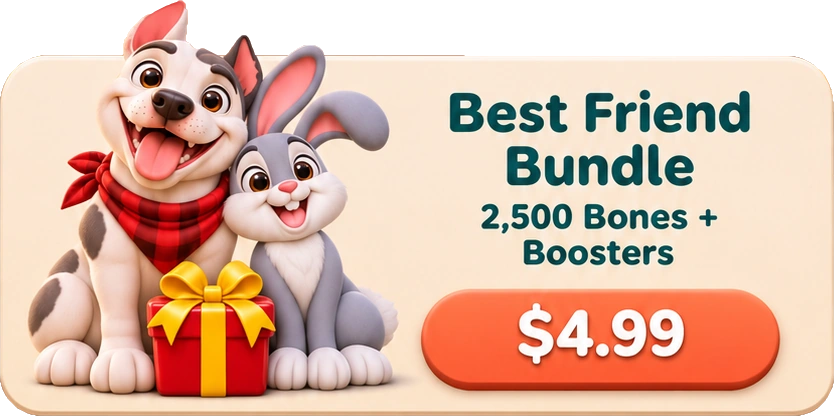
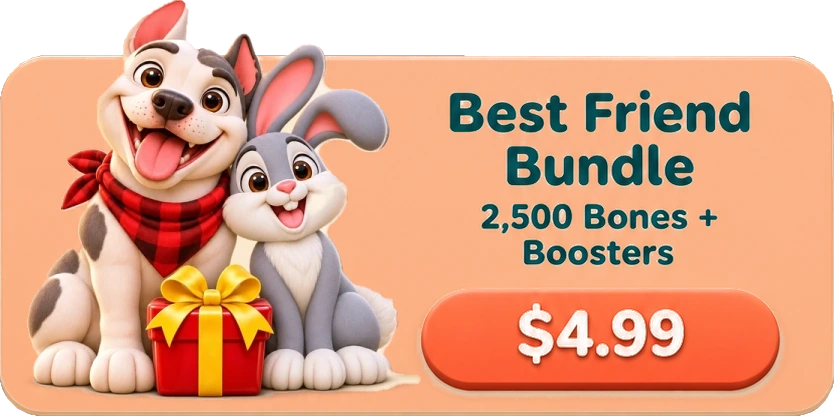
Shop: peach title and peach Best Friend Bundle box so Rambo stands out
Claude-Session: https://claude.ai/code/session_01HqXo8oXM9XTGkWGnUkjv9K

diff --git a/bovo11/shop.html b/bovo11/shop.html
@@ -47,7 +47,7 @@ K.topbar(ui,'settings.html');
 const buy=()=>K.toast('Purchases are coming soon!');
 const bst=(price,name,bk)=>()=>{if(!window.Eco)return;if(!Eco.spend(price)){K.toast('You need '+price+' bones. You have '+Eco.bones()+'.');return}Eco.addBoost(bk,1);K.toast(name+' added! You have '+Eco.boosts()[bk]+'.')};
 // pieces cut straight from ChatGPT's approved Shop mockup (934 px wide)
-const M=K.mock(ui,{MW:934,y0:170,y1:1462,base:'../ui3/shop/',parts:[
+const M=K.mock(ui,{MW:934,y0:170,y1:1462,base:'../ui3/shop/',v:2,parts:[
  {n:'title',x:218,y:174,w:496,h:120,i:0,row:0},
  {n:'bundle',x:50,y:287,w:834,h:416,i:1,row:1},
  {row:2,n:'b100',x:55,y:721,w:265,h:274,i:2},{row:2,n:'b550',x:337,y:722,w:260,h:273,i:3},{row:2,n:'b1200',x:614,y:721,w:263,h:274,i:4},
